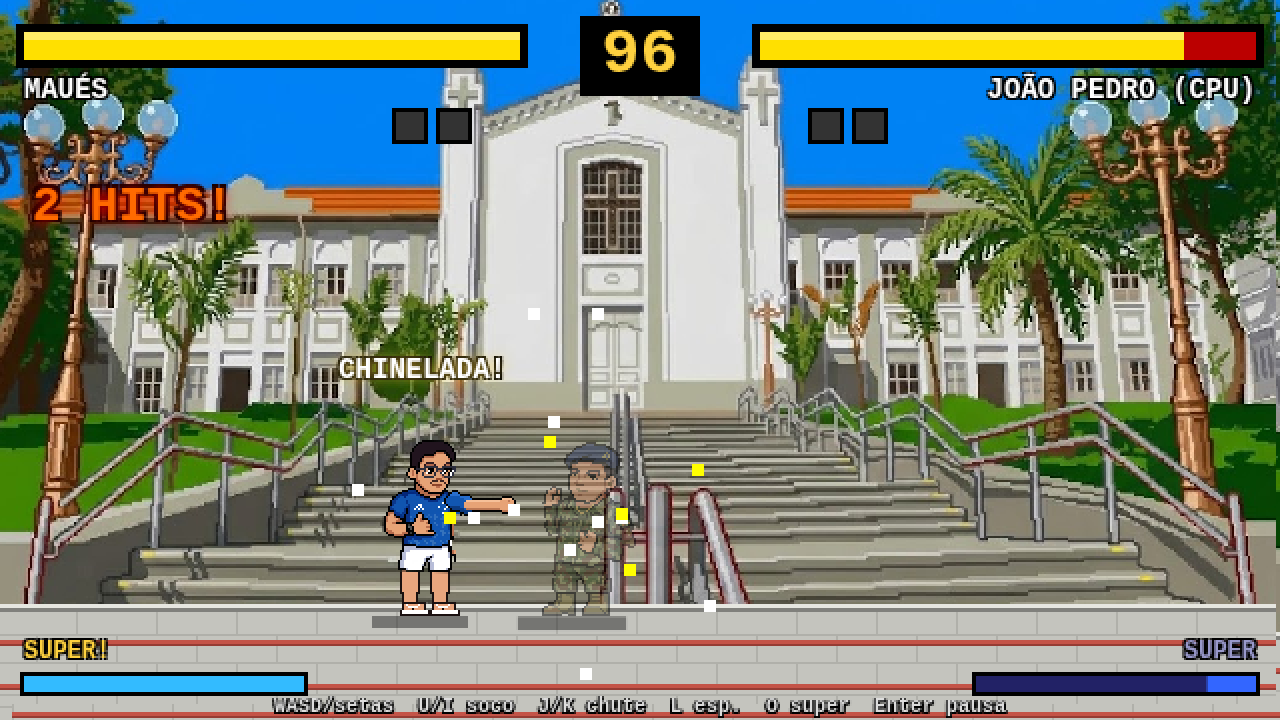
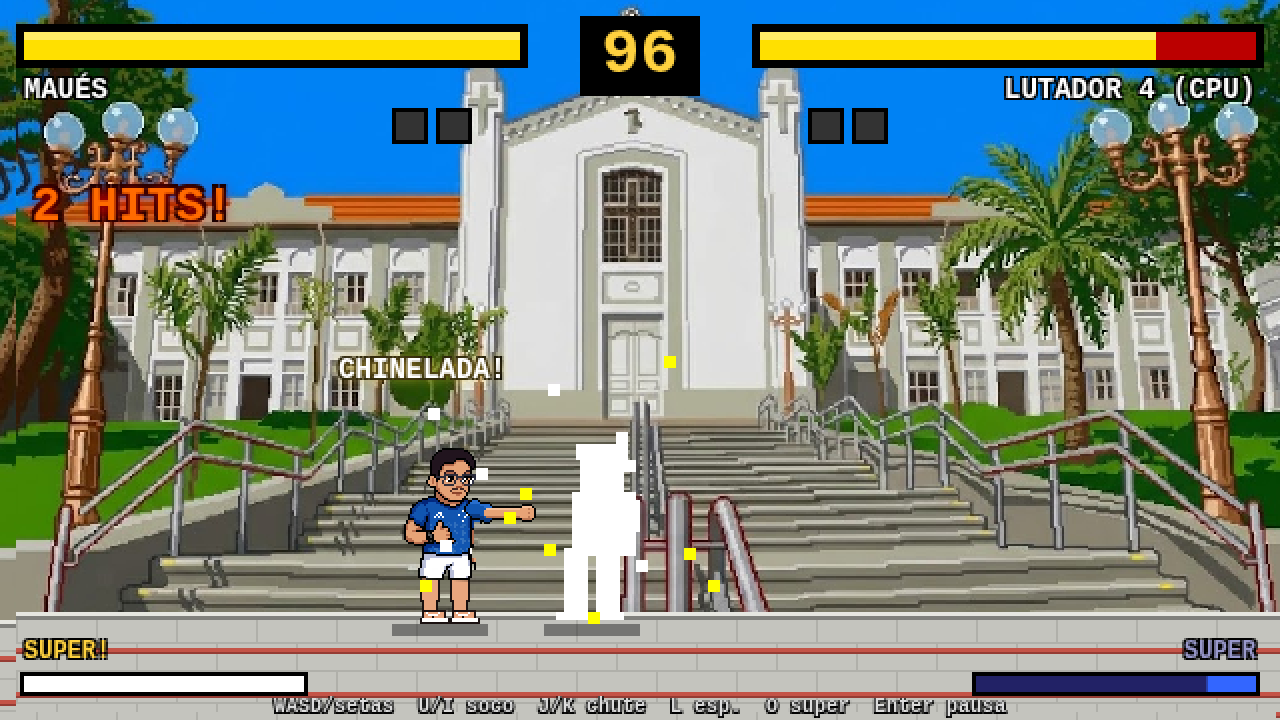
Remove skins de cor (BUILD 202610211410)

diff --git a/js/characters.js b/js/characters.js
@@ -4,9 +4,8 @@
 // punchSprite: versão do tronco com o braço esticado (usada no soco).
 // sprite: caminho da imagem (null = desenho procedural). spriteLegs: true se a imagem é só do tronco (o jogo desenha as pernas).
 // specials: nomes dos golpes especiais (os comandos são iguais para todos).
-// skins: lista de visuais (▲/▼ na seleção). { nome } = original; { nome, troca: [{ faixa: [matiz1, matiz2], matiz, sat, luz }] } troca a paleta
-//   (matiz em graus: 0 vermelho, 120 verde, 220 azul); { nome, pasta: "assets/skins/x/" } usa imagens próprias com os mesmos nomes de arquivo;
-//   { nome, color, accent } para personagens desenhados por código. Espelho (mesmo personagem dos dois lados): o P2 recebe outra skin automaticamente.
+// skins: roupas. { nome: "Original" } = visual padrão; { nome, pasta: "assets/skins/x/" } usa imagens próprias com os mesmos nomes de arquivo
+//   (veja assets/skins/LEIA-ME.txt). Com 2+ skins, ▲/▼ troca na seleção e o espelho dá outra skin ao P2; com 1 só, os dois usam a Original.
 // moves: ajustes por personagem dos especiais (editáveis na planilha kit/personagens.xlsx): fireball/super { dmg, vel, hits }, dp/spin { dmg, s, a, r, maxHits }.
 // quote: frase de vitória. boss: true = Chefão (último da escada do Arcade; selecionável só no Versus). scale: tamanho do desenho.
 // ALTURA: alturaReal (m) -> altura em jogo (px de arte, pés até o topo da cabeça, sem cabelo/chapéu alto)
@@ -20,25 +19,23 @@ const CHARACTERS = [
     sprite: "assets/maues.png", spriteLegs: true, skin: "#e9a57e", legX: [9, 24], punchSprite: "assets/maues_punch.png", projectile: "chinelo",
     specials: { fireball: "CHINELADA", dp: "GANCHO DO MAUÉS", spin: "FURACÃO DE CHINELO", super: "SUPER CHINELADA" },
     quote: "Chinelo branco não perdoa ninguém!",
-    skins: [{ nome: "Original" }, { nome: "Vermelha", troca: [{ faixa: [195, 255], matiz: 355 }] }, { nome: "Verde", troca: [{ faixa: [195, 255], matiz: 135, sat: 0.9 }] },
-      { nome: "Preta", troca: [{ faixa: [195, 255], sat: 0.15, luz: 0.55 }] }, { nome: "Branca (pasta)", pasta: "assets/skins/maues_branca/" }] },
+    skins: [{ nome: "Original" }] },
   { name: "João Pedro", alturaReal: 1.78, alturaArte: 77, color: "#4a5530", accent: "#3fa34d", stats: { speed: 3, power: 7, health: 8 }, sprite: null, parts: "assets/joao/", partsMeta: { ox: -21, legX: [8, 22] }, projectile: "granada",
     specials: { fireball: "GRANADA", dp: "GANCHO DE COMANDO", spin: "RAJADA DE COTURNO", super: "BOMBARDEIO TÁTICO" },
     quote: "Missão cumprida. Próximo da fila!",
-    skins: [{ nome: "Original" }, { nome: "Deserto", troca: [{ faixa: [50, 150], matiz: 38, sat: 0.9, luz: 1.15 }] }, { nome: "Marinha", troca: [{ faixa: [50, 150], matiz: 215, sat: 1.1 }] },
-      { nome: "Urbana", troca: [{ faixa: [50, 150], sat: 0.1 }] }] },
+    skins: [{ nome: "Original" }] },
   { name: "Lutador 3", color: "#3bd16f", accent: "#1a1a1a", stats: { speed: 4, power: 9, health: 8 }, sprite: null,
     specials: { fireball: "PEDRADA", dp: "GANCHO DE PEDRA", spin: "ROLO COMPRESSOR", super: "TERREMOTO TOTAL" },
     quote: "Força bruta resolve tudo.",
-    skins: [{ nome: "Original" }, { nome: "Laranja", color: "#e8892b", accent: "#3a1a00" }, { nome: "Azul", color: "#2b7be8", accent: "#ffffff" }] },
+    skins: [{ nome: "Original" }] },
   { name: "Lutador 4", color: "#b03be8", accent: "#ff9ff3", stats: { speed: 7, power: 7, health: 4 }, sprite: null,
     specials: { fireball: "RAIO ROXO", dp: "GANCHO VOADOR", spin: "PIÃO ROXO", super: "FÚRIA VIOLETA" },
     quote: "Volte quando treinar mais.",
-    skins: [{ nome: "Original" }, { nome: "Dourada", color: "#e8c22b", accent: "#7a4a00" }, { nome: "Ciano", color: "#2be8d8", accent: "#00403a" }] },
+    skins: [{ nome: "Original" }] },
   { name: "Chefão", color: "#2b2b33", accent: "#e83b3b", stats: { speed: 7, power: 9, health: 10 }, sprite: null, boss: true, scale: 1.2,
     specials: { fireball: "BOLA SOMBRIA", dp: "GANCHO DO CHEFÃO", spin: "FURACÃO SOMBRIO", super: "APOCALIPSE" },
     quote: "Ninguém derruba o Chefão!",
-    skins: [{ nome: "Original" }, { nome: "Sangue", color: "#5a0a0a", accent: "#ffd23f" }] },
+    skins: [{ nome: "Original" }] },
 ];
 // >>> PLANILHA (gerado por tools/planilha.py importar — edite a planilha, não aqui)
 const PLANILHA = {

diff --git a/js/fighter.js b/js/fighter.js
@@ -206,7 +206,7 @@ class Fighter {
     g.save(); g.translate(x, y); g.scale(f * s, s); this.drawProc(g, pose); g.restore();
   }
   drawProc(g, pose) {
-    const c = (this.skin && this.skin.color) || this.cfg.color, ac = (this.skin && this.skin.accent) || this.cfg.accent, sk = "#f2c49b", dk = "#222", W = this.flash % 4 > 1;
+    const c = this.cfg.color, ac = this.cfg.accent, sk = "#f2c49b", dk = "#222", W = this.flash % 4 > 1;
     const R = (x, y, w, h, col) => { g.fillStyle = W ? "#fff" : col; g.fillRect(x, y, w, h); };
     const head = (hy, hx = 0) => { R(-5 + hx, hy, 11, 11, sk); R(-6 + hx, hy - 1, 13, 4, ac); R(3 + hx, hy + 4, 2, 2, "#000"); };
     if (pose === "down" || pose === "fall") { if (pose === "fall") g.rotate(-0.5); R(-24, -7, 20, 6, c); R(-4, -10, 16, 10, c); R(-4, -10, 3, 10, ac); R(12, -11, 10, 10, sk); R(20, -12, 3, 11, ac); return; }
@@ -236,27 +236,12 @@ class Fighter {
     if (pose === "upper" && this.anim % 4 < 2) { g.fillStyle = ac + "66"; g.fillRect(-14, -60, 6, 50); }
   }
   // ---- SKINS ----
-  // skin = { nome, pasta } -> usa imagens com o mesmo nome de arquivo dentro da pasta
-  //        { nome, troca: [{ faixa: [h1, h2], matiz, sat, luz }] } -> troca de paleta (matiz em graus)
-  //        { nome, color, accent } -> cores dos personagens desenhados por código
+  // skin = { nome, pasta } -> usa imagens de mesmo nome dentro da pasta (roupa nova); arquivo que faltar usa o original
   tex(path) {
     const sk = this.skin; if (!path) return null;
     if (sk && sk.pasta) { const alt = Fighter.load(sk.pasta + path.split("/").pop()); if (alt) return alt; }
-    const im = Fighter.load(path); if (!im || !sk || !sk.troca) return im;
-    const key = path + "|" + this.cfg.name + "|" + sk.nome; if (Fighter.skinCache[key]) return Fighter.skinCache[key];
-    const c = document.createElement("canvas"); c.width = im.width; c.height = im.height; const x = c.getContext("2d"); x.drawImage(im, 0, 0);
-    const d = x.getImageData(0, 0, c.width, c.height), a = d.data;
-    for (let i = 0; i < a.length; i += 4) { if (!a[i + 3]) continue;
-      const r = a[i] / 255, gg = a[i + 1] / 255, b = a[i + 2] / 255, mx = Math.max(r, gg, b), mn = Math.min(r, gg, b), l = (mx + mn) / 2, dd = mx - mn;
-      if (dd < 0.06) continue; const s = dd / (1 - Math.abs(2 * l - 1));
-      let h = mx === r ? ((gg - b) / dd) % 6 : mx === gg ? (b - r) / dd + 2 : (r - gg) / dd + 4; h = (h * 60 + 360) % 360;
-      const t = sk.troca.find(t => t.faixa[0] <= t.faixa[1] ? h >= t.faixa[0] && h <= t.faixa[1] : h >= t.faixa[0] || h <= t.faixa[1]); if (!t || s < (t.minSat ?? 0.12)) continue;
-      const H = t.matiz ?? h, S = Math.min(1, s * (t.sat ?? 1)), L = Math.min(1, l * (t.luz ?? 1)), C = (1 - Math.abs(2 * L - 1)) * S, X = C * (1 - Math.abs((H / 60) % 2 - 1)), m = L - C / 2;
-      const [r1, g1, b1] = H < 60 ? [C, X, 0] : H < 120 ? [X, C, 0] : H < 180 ? [0, C, X] : H < 240 ? [0, X, C] : H < 300 ? [X, 0, C] : [C, 0, X];
-      a[i] = (r1 + m) * 255; a[i + 1] = (g1 + m) * 255; a[i + 2] = (b1 + m) * 255; }
-    x.putImageData(d, 0, 0); return (Fighter.skinCache[key] = c);
+    return Fighter.load(path);
   }
-  static skinCache = {};
   static load(src) { const c = Fighter.cache[src] || (Fighter.cache[src] = Object.assign(new Image(), { src: src + "?v=" + (window.BUILD || 1) })); return c.complete && c.naturalWidth ? c : null; }
   // Lutador por partes (pixels da arte original): tronco por pose + pernas que giram no quadril
   drawParts(g, x, y, f, pose) {

diff --git a/index.html b/index.html
@@ -12,6 +12,6 @@ canvas{image-rendering:pixelated;image-rendering:crisp-edges;background:#000}
 <div id="wrap"><canvas id="c" width="640" height="360"></canvas></div>
 <div id="touch"><div><span class="tb" data-k="ArrowLeft">◀</span><span class="tb" data-k="ArrowUp">▲</span><span class="tb" data-k="ArrowDown">▼</span><span class="tb" data-k="ArrowRight">▶</span></div>
 <div><span class="tb" data-k="KeyU">SF</span><span class="tb" data-k="KeyI">SF+</span><span class="tb" data-k="KeyJ">CF</span><span class="tb" data-k="KeyK">CF+</span><span class="tb" data-k="KeyL">ESP</span><span class="tb" data-k="KeyO">SUP</span><span class="tb" data-k="Enter">OK</span></div></div>
-<script>window.BUILD="202610211400";</script><script src="js/characters.js?v=202610211400"></script><script src="js/stages.js?v=202610211400"></script><script src="js/audio.js?v=202610211400"></script><script src="js/input.js?v=202610211400"></script>
-<script src="js/fighter.js?v=202610211400"></script><script src="js/ai.js?v=202610211400"></script><script src="js/game.js?v=202610211400"></script>
+<script>window.BUILD="202610211410";</script><script src="js/characters.js?v=202610211410"></script><script src="js/stages.js?v=202610211410"></script><script src="js/audio.js?v=202610211410"></script><script src="js/input.js?v=202610211410"></script>
+<script src="js/fighter.js?v=202610211410"></script><script src="js/ai.js?v=202610211410"></script><script src="js/game.js?v=202610211410"></script>
 </body></html>

diff --git a/js/game.js b/js/game.js
@@ -49,7 +49,7 @@ function drawStage(t) {
 // ---------- retratos ----------
 const PORTRAITS = CHARACTERS.map(c => new Fighter(c, 0, 1, null));
 const skinsOf = i => (CHARACTERS[i] && CHARACTERS[i].skins) || [{ nome: "Original" }];
-function fixMirror() { if (!game.skin) game.skin = [0, 0]; if (game.sel[0] === game.sel[1] && game.skin[0] === game.skin[1]) game.skin[1] = (game.skin[1] + 1) % skinsOf(game.sel[1]).length; }
+function fixMirror() { if (!game.skin) game.skin = [0, 0]; if (game.sel[0] === game.sel[1] && game.skin[0] === game.skin[1] && skinsOf(game.sel[1]).length > 1) game.skin[1] = (game.skin[1] + 1) % skinsOf(game.sel[1]).length; }
 function skinFor(pi) { const l = skinsOf(game.sel[pi]); return l[((game.skin || [0, 0])[pi] || 0) % l.length]; }
 function portrait(i, x, y, sc = 1, pose = "idle", flip = 1, dark, skin) {
   const f = PORTRAITS[i]; f.skin = skin || null; f.x = 0; f.y = 0; f.facing = flip; f.state = "idle"; f.anim = game.frame; f.flash = 0; f.input = {}; f.inFight = false; const op = f.pose; f.pose = () => pose;

diff --git a/README.md b/README.md
@@ -104,9 +104,8 @@ Simulação CPU x CPU (nível 4, 200 lutas, lados alternados): Maués 47,5% x Jo
 - Os ajustes de especiais por personagem ficam em `moves` (fireball/super: `dmg`, `vel`, `hits`; dp/spin: `dmg`, `s`, `a`, `r`, `maxHits`).
 
 ## Skins
-Cada personagem tem uma lista `skins`. Na seleção, ▲/▼ troca a skin; no Versus é W/S para o P1 e ▲/▼ para o P2. Num espelho, o P2 recebe outra skin automaticamente.
+Hoje todo personagem tem só a skin `Original`. Para adicionar roupas novas:
+1. Crie uma pasta `assets/skins/<nome>/` com imagens de mesmo nome e tamanho dos originais (veja `assets/skins/LEIA-ME.txt`).
+2. Adicione `{ nome: "...", pasta: "assets/skins/<nome>/" }` na lista `skins` do personagem.
 
-Há três tipos de skin:
-- `troca`: troca de paleta por faixa de matiz.
-- `pasta`: imagens próprias com os mesmos nomes de arquivo, em `assets/skins/<nome>/`. O exemplo é `maues_branca`.
-- `color`/`accent`: para personagens desenhados por código.
+Com mais de uma skin, ▲/▼ troca a skin na seleção (no Versus: W/S para o P1 e ▲/▼ para o P2), e num espelho o P2 recebe outra skin automaticamente. Com uma skin só, a dica não aparece e os dois lados usam a Original, sem tingimento.
